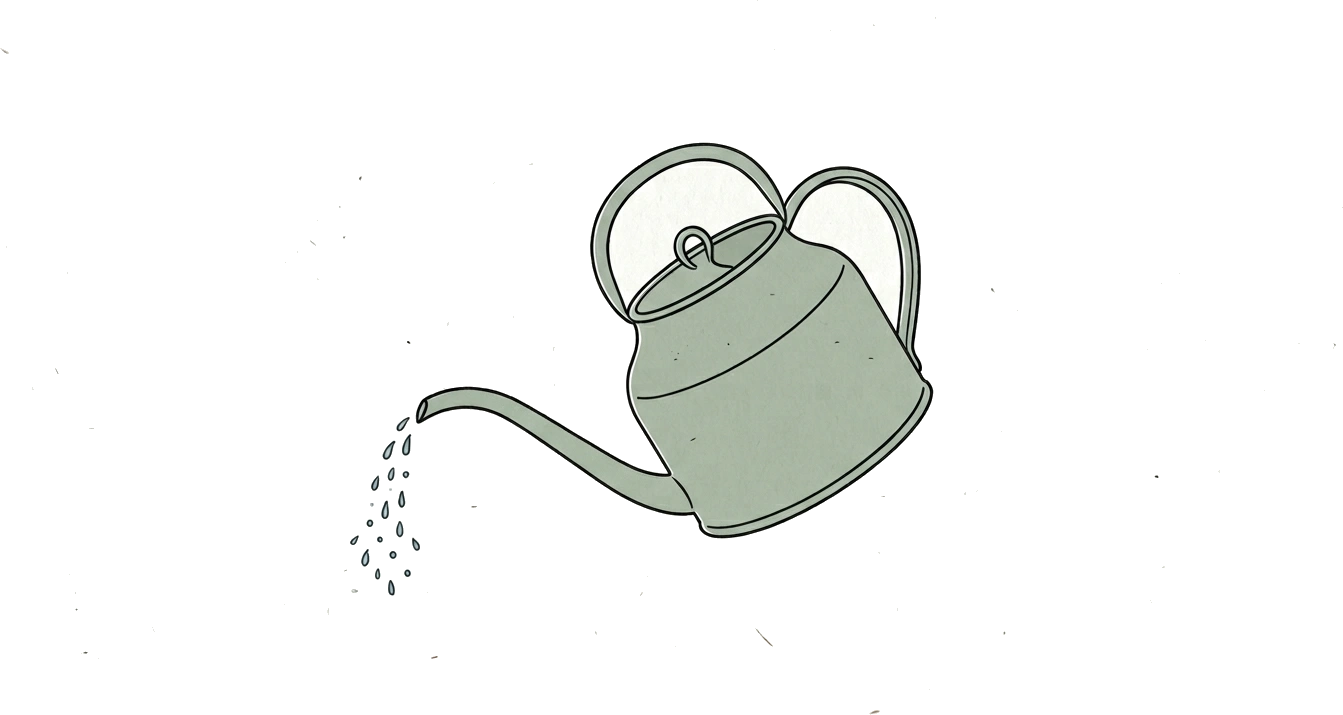
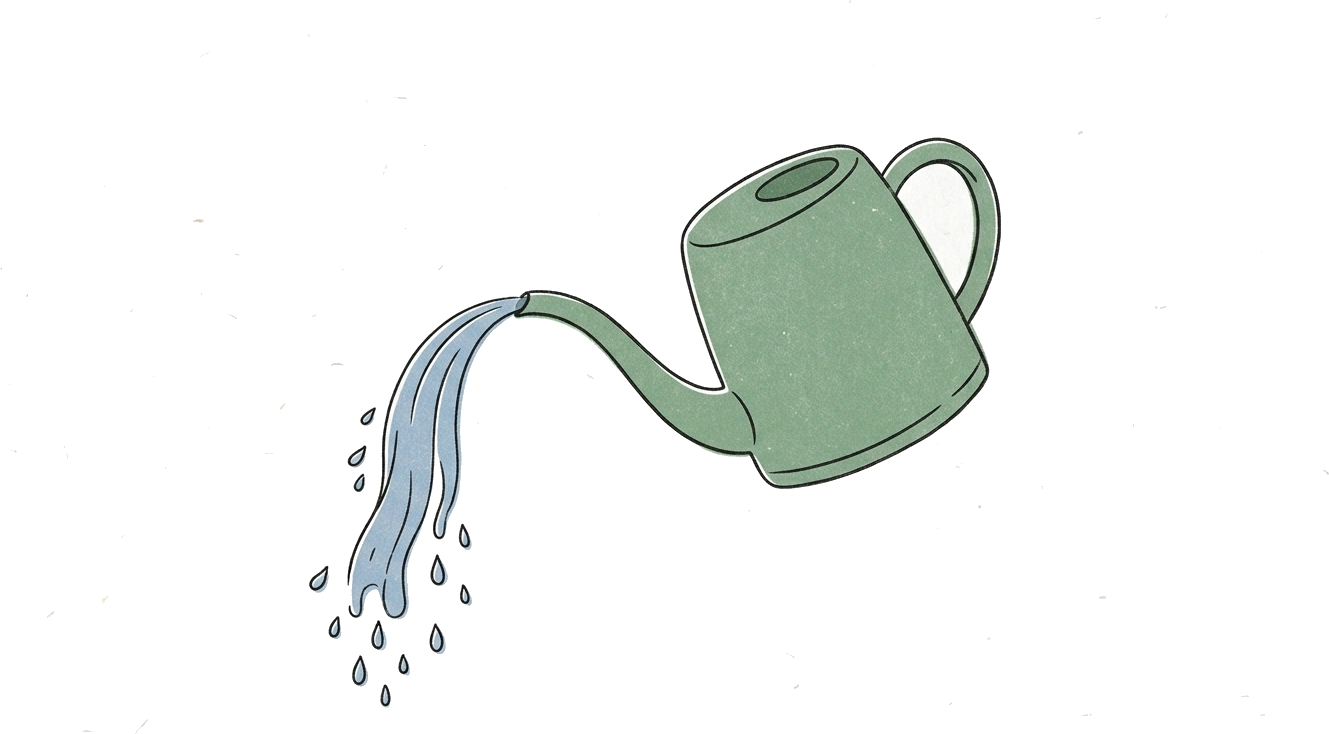
swap SVG line-draw for AI-generated watering can with spring animation
Generate a cute pouring watering can in our illustration style.
Spring entrance (scale + rotate), gentle bobbing while active,
smooth exit. Much better looking than the hand-coded SVG paths.

Changed region(s): [[0.216, 0.1846, 0.7713, 0.9538], [0.3394, 0.8, 0.3702, 0.8308]]

diff --git a/src/components/watering-animation.tsx b/src/components/watering-animation.tsx
@@ -7,126 +7,31 @@ export function WateringAnimation({ active }: { active: boolean }) {
     <AnimatePresence>
       {active && (
         <motion.div
-          initial={{ opacity: 0 }}
-          animate={{ opacity: 1 }}
-          exit={{ opacity: 0 }}
-          transition={{ duration: 0.3 }}
           className="absolute inset-0 flex items-center justify-center pointer-events-none"
+          initial={{ opacity: 0, scale: 0.7, rotate: 15 }}
+          animate={{ opacity: 1, scale: 1, rotate: 0 }}
+          exit={{ opacity: 0, scale: 0.8, rotate: -10 }}
+          transition={{
+            type: "spring",
+            stiffness: 200,
+            damping: 20,
+            mass: 0.8,
+          }}
         >
-          <svg
-            viewBox="0 0 120 100"
-            fill="none"
-            xmlns="http://www.w3.org/2000/svg"
-            className="w-3/4 h-3/4"
-          >
-            {/* Spout */}
-            <motion.path
-              d="M 20,58 Q 10,55 8,48 Q 6,42 12,38 L 38,48"
-              stroke="#1a1a1a"
-              strokeWidth="2"
-              strokeLinecap="round"
-              fill="none"
-              initial={{ pathLength: 0 }}
-              animate={{ pathLength: 1 }}
-              transition={{ duration: 0.5, ease: "easeInOut" }}
-            />
-
-            {/* Body */}
-            <motion.path
-              d="M 38,38 L 88,38 Q 92,38 92,42 L 92,62 Q 92,68 86,68 L 44,68 Q 38,68 38,62 Z"
-              stroke="#1a1a1a"
-              strokeWidth="2"
-              strokeLinejoin="round"
-              fill="none"
-              initial={{ pathLength: 0, fill: "rgba(74, 122, 46, 0)" }}
-              animate={{
-                pathLength: 1,
-                fill: "rgba(74, 122, 46, 0.15)",
-              }}
-              transition={{
-                pathLength: { duration: 0.6, ease: "easeInOut", delay: 0.2 },
-                fill: { duration: 0.4, delay: 0.8 },
-              }}
-            />
-
-            {/* Lid */}
-            <motion.path
-              d="M 42,38 L 42,34 Q 42,32 44,32 L 82,32 Q 84,32 84,34 L 84,38"
-              stroke="#1a1a1a"
-              strokeWidth="2"
-              strokeLinecap="round"
-              fill="none"
-              initial={{ pathLength: 0 }}
-              animate={{ pathLength: 1 }}
-              transition={{ duration: 0.4, ease: "easeInOut", delay: 0.4 }}
-            />
-
-            {/* Handle */}
-            <motion.path
-              d="M 56,32 Q 56,18 65,18 Q 74,18 74,32"
-              stroke="#1a1a1a"
-              strokeWidth="2"
-              strokeLinecap="round"
-              fill="none"
-              initial={{ pathLength: 0 }}
-              animate={{ pathLength: 1 }}
-              transition={{ duration: 0.4, ease: "easeInOut", delay: 0.5 }}
-            />
-
-            {/* Knob on lid */}
-            <motion.circle
-              cx="63"
-              cy="32"
-              r="2"
-              stroke="#1a1a1a"
-              strokeWidth="1.5"
-              fill="none"
-              initial={{ pathLength: 0 }}
-              animate={{ pathLength: 1 }}
-              transition={{ duration: 0.2, delay: 0.7 }}
-            />
-
-            {/* Water drops from spout */}
-            {[0, 1, 2, 3, 4].map((i) => (
-              <motion.circle
-                key={i}
-                cx={6 + i * 1.5}
-                cy={48}
-                r={1.2 + (i % 2) * 0.5}
-                fill="#2563eb"
-                initial={{ y: 0, opacity: 0 }}
-                animate={{
-                  y: [0, 15 + i * 5, 35 + i * 4],
-                  opacity: [0, 0.8, 0],
-                  x: [-1 + i * 0.5, i * 0.8, 2 + i * 0.6],
-                }}
-                transition={{
-                  duration: 0.9,
-                  delay: 0.9 + i * 0.15,
-                  ease: "easeIn",
-                  repeat: 1,
-                  repeatDelay: 0.1,
-                }}
-              />
-            ))}
-
-            {/* Water stream line from spout */}
-            <motion.path
-              d="M 8,48 Q 6,58 10,70 Q 14,80 8,88"
-              stroke="#2563eb"
-              strokeWidth="1.5"
-              strokeLinecap="round"
-              fill="none"
-              opacity={0.5}
-              initial={{ pathLength: 0 }}
-              animate={{ pathLength: [0, 1, 0] }}
-              transition={{
+          <motion.img
+            src="/images/watering-can.webp"
+            alt=""
+            className="w-[80%] h-[80%] object-contain"
+            initial={{ y: -10 }}
+            animate={{ y: [0, -4, 0] }}
+            transition={{
+              y: {
                 duration: 1.2,
-                delay: 0.9,
+                repeat: Infinity,
                 ease: "easeInOut",
-              }}
-            />
-          </svg>
+              },
+            }}
+          />
         </motion.div>
       )}
     </AnimatePresence>
